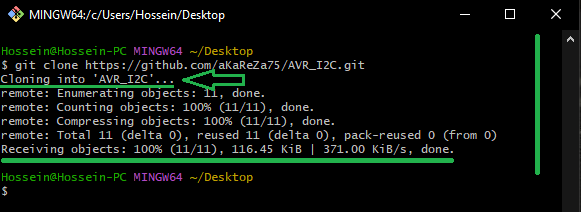
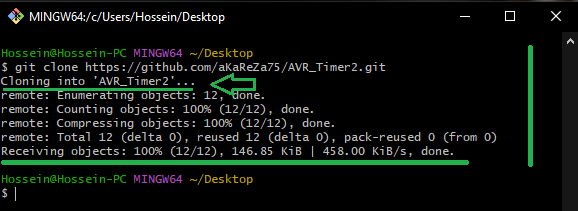
update images

diff --git a/README.md b/README.md
@@ -40,6 +40,9 @@ Timer2 is an 8-bit timer/counter peripheral in the ATmega328P microcontroller, c
 > The resources are detailed in the sections below.  
 > To access any of them, simply click on the corresponding blue link.
 
+> [!CAUTION]
+> This tutorial has not yet **started!**
+
 
 # 💻 How to Use Git and GitHub
 To access the repository files and save them on your computer, there are two methods available:
